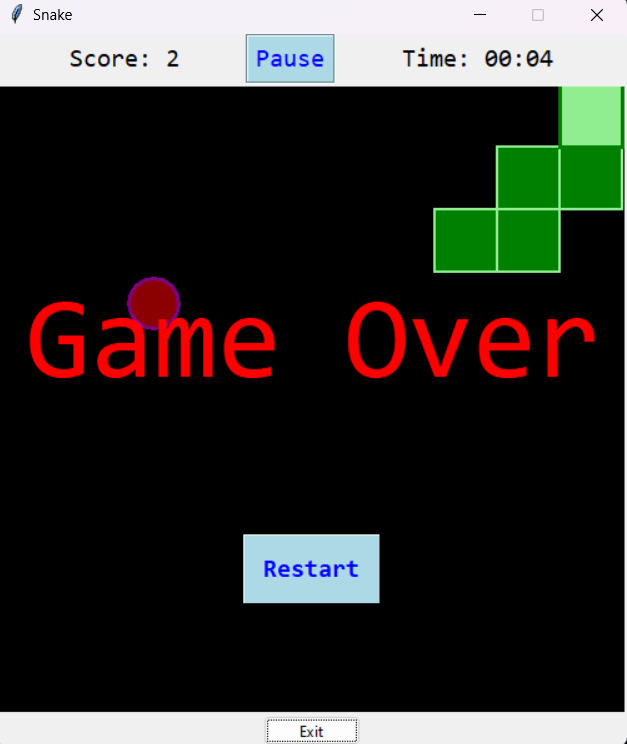
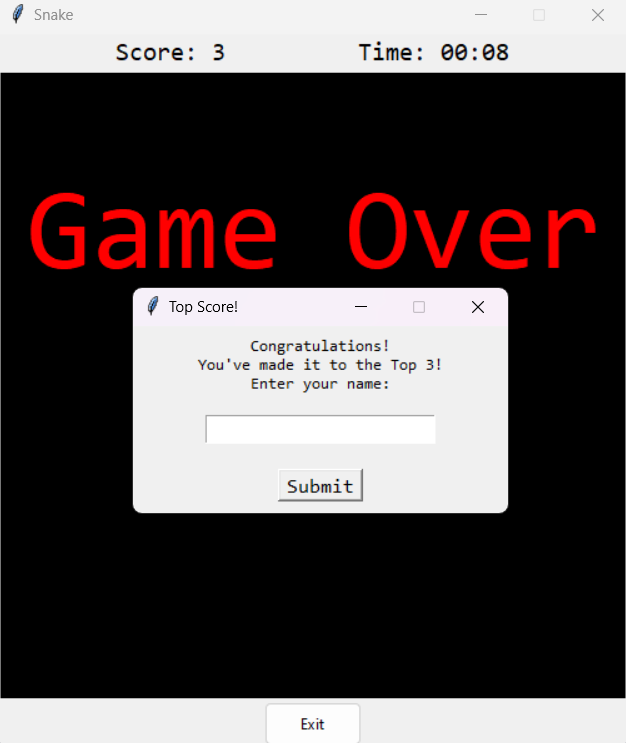
score and username are updated on the canva screen instead of terminal console.

diff --git a/main.py b/main.py
@@ -131,7 +131,7 @@ class Game():
 
 
     def tooggle_pause(self):
-
+        ''' Allow to pause the game, in stopping to call next_turn() function.'''
         if not self.is_game_paused and self.is_game_over == False:
             print("Game paused.")
             self.is_game_paused = True
@@ -319,22 +319,22 @@ class Game():
         self.is_game_over = True
         print("\n", "-"*10, "Game over!", "-"*10)
         print(f"** score: {self.score} -- in {self.formatted_time}s **")
-        self.pause_button.grid_remove()
 
-        # remove the key bindings to prevent error on console
-        self.unbind_keys()
-        
+
+        self.screen_game.delete("all") # remove the items(snake and food) on canvas
+        self.pause_button.grid_remove() # remove the pause button.
+
+        self.unbind_keys() # remove the key bindings to prevent error on console
+
+        # display a 'Game over' message on the screen.        
         self.screen_game.create_text(self.screen_game.winfo_width()/2, self.screen_game.winfo_height()/4,
                             font=("consolas", 70),
                             text="Game Over",
                             fill="red",
                             tag="gameover",
                             )
-
+        # --- call the function to check the score against and update is necessary
         self.update_best_scores()
-
-        # ---set the the restart button after a little delay---------------
-        self.window.after(500, lambda: self.restart_button.place(relx=0.5, rely=0.75, anchor=CENTER))
 
 
     def load_best_scores(self, file_path="best_scores.json"):
@@ -360,32 +360,89 @@ class Game():
         '''check if the score is in the top 10.
         if so adds it to the list and remove the last one
         '''
-        self.scores = self.load_best_scores(file_path)
+        self.best_scores = self.load_best_scores(file_path)
 
+        is_top_scores = False
+        # compare if self.score is higher than any self.scores['score']
+        if len(self.best_scores) < 3:
+            # list scores shorter than 3 so automatically entered in the Top3
+            is_top_scores = True
+        else:
+            # check if new score os is higher than the lowest top score.
+            is_top_scores = self.score > self.best_scores[-1]['score']
 
-        user = input("\nTo remember your score, enter your name : ").capitalize()
-        now = datetime.datetime.now().strftime("%Y-%m-%d %H:%M")  # Nicely formatted date
+        # trying to implement pop up input for the user to enter their names.
+        if is_top_scores:
+            # Create a pop-up input dialog
+            username_window = tk.Toplevel(self.window)
+            username_window.title("Top Score!")
+            username_window.geometry("300x150")
+            username_window.resizable(False, False)
 
-        # add the new score to the list
-        self.scores.append({"user":user, "score":self.score, "time":self.formatted_time, "date":now}) # datetime.datetime()
+            # # Center the pop-up
+            username_window.update_idletasks()
+            width = username_window.winfo_width()
+            height = username_window.winfo_height()
+            x = (username_window.winfo_screenwidth() // 2) - (width // 2)
+            y = (username_window.winfo_screenheight() // 2) - (height // 2)
+            username_window.geometry(f'{width}x{height}+{x}+{y}')
 
-        # sort the score list and keep the top 10
-        self.scores = sorted(self.scores, key=lambda x: x["score"], reverse=True)[:10]
+            # # Add labels and entry
+            label = tk.Label(username_window, 
+                             text="Congratulations!\nYou've made it to the Top 3!\nEnter your name:", 
+                             font=('consolas', 10))
+            label.pack(pady=5)
+    
+            name_entry = tk.Entry(username_window, font=('consolas', 12))
+            name_entry.pack(pady=10)
 
-        # save the updated score list in the file
-        print("Try updating the list.")
-        with open(file_path, "w") as file:
-            print("updating...")
-            json.dump(self.scores, file, indent=4, separators=(',', ':'))
-            print("updated...")
-        
-        self.show_top_score()
+            def submit_name():
+                '''return the username from the input button on canva'''
+                user = name_entry.get().strip().capitalize()
+
+                if not user:
+                    user = "Anonymous"
+
+                now = datetime.datetime.now().strftime("%Y-%m-%d %H:%M")  # Nicely formatted date
+
+                # add the new score to the list
+                self.best_scores.append({"user":user,
+                                         "score":self.score,
+                                         "time":self.formatted_time,
+                                         "date":now})
+
+                # sort the score list and keep the top 10
+                self.best_scores = sorted(self.best_scores, key=lambda x: x["score"], reverse=True)[:10]
+
+                username_window.destroy()
+
+                 # save the updated score list in the file
+                print("Try updating the list.")
+                with open(file_path, "w") as file:
+                    print("updating...")
+                    json.dump(self.best_scores, file, indent=4, separators=(',', ':'))
+                    print("updated.")
+
+                self.show_top_score()
+
+            #  call to submit name to be updated in the list
+            submit_button = tk.Button(username_window, 
+                                      text="Submit", 
+                                      command=submit_name, 
+                                      font=('consolas', 12))
+            submit_button.pack(pady=10)
+
+        else:
+            self.show_top_score()
 
 
     def show_top_score(self): 
         '''Display the top3 scores.'''
 
-        top_scores = self.scores[:3]
+        # ---set the the restart button after a little delay---------------
+        self.window.after(500, lambda: self.restart_button.place(relx=0.5, rely=0.75, anchor=CENTER))
+
+        top_scores = self.best_scores[:3]
         print("\n --- Top 3 scores --- ")
 
 
@@ -399,7 +456,7 @@ class Game():
         )
         # show the list of the top 3 scores on the screen
         for i, item in enumerate(top_scores, start=1):
-            best_scores = f"{i}. {item['user'][:5]}: Score: {item['score']}  --  time: {item['time']}s"
+            best_scores = f"{i}. {item['user'][:4]}: Score: {item['score']}  --  time: {item['time']}s"
             print(best_scores)
             self.screen_game.create_text(
             self.screen_game.winfo_width()/2, self.screen_game.winfo_height()/2.1 + (i*30),

diff --git a/README.md b/README.md
@@ -19,11 +19,11 @@ self.BASE_SPEED and self.MAX_SPEED can be edited at the top of the Game class
 
 
 
-'Start of program/choose the game's setting.'
+'Start of program'
 
 <img src="./screenshots/1.png" alt="some sample photos" width=350>
 
-'Start button/Ready to start'
+'choose the game's setting.'
 
 <img src="./screenshots/2.png" alt="some sample photos" width=350>
 
@@ -31,8 +31,12 @@ self.BASE_SPEED and self.MAX_SPEED can be edited at the top of the Game class
 
 <img src="./screenshots/3.png" alt="some sample photos" width=350>
 
-'Game over'
+'user enter their names.'
 
 <img src="./screenshots/4.png" alt="some sample photos" width=350>
+
+'Game over'
+
+<img src="./screenshots/5.png" alt="some sample photos" width=350>
 
 
